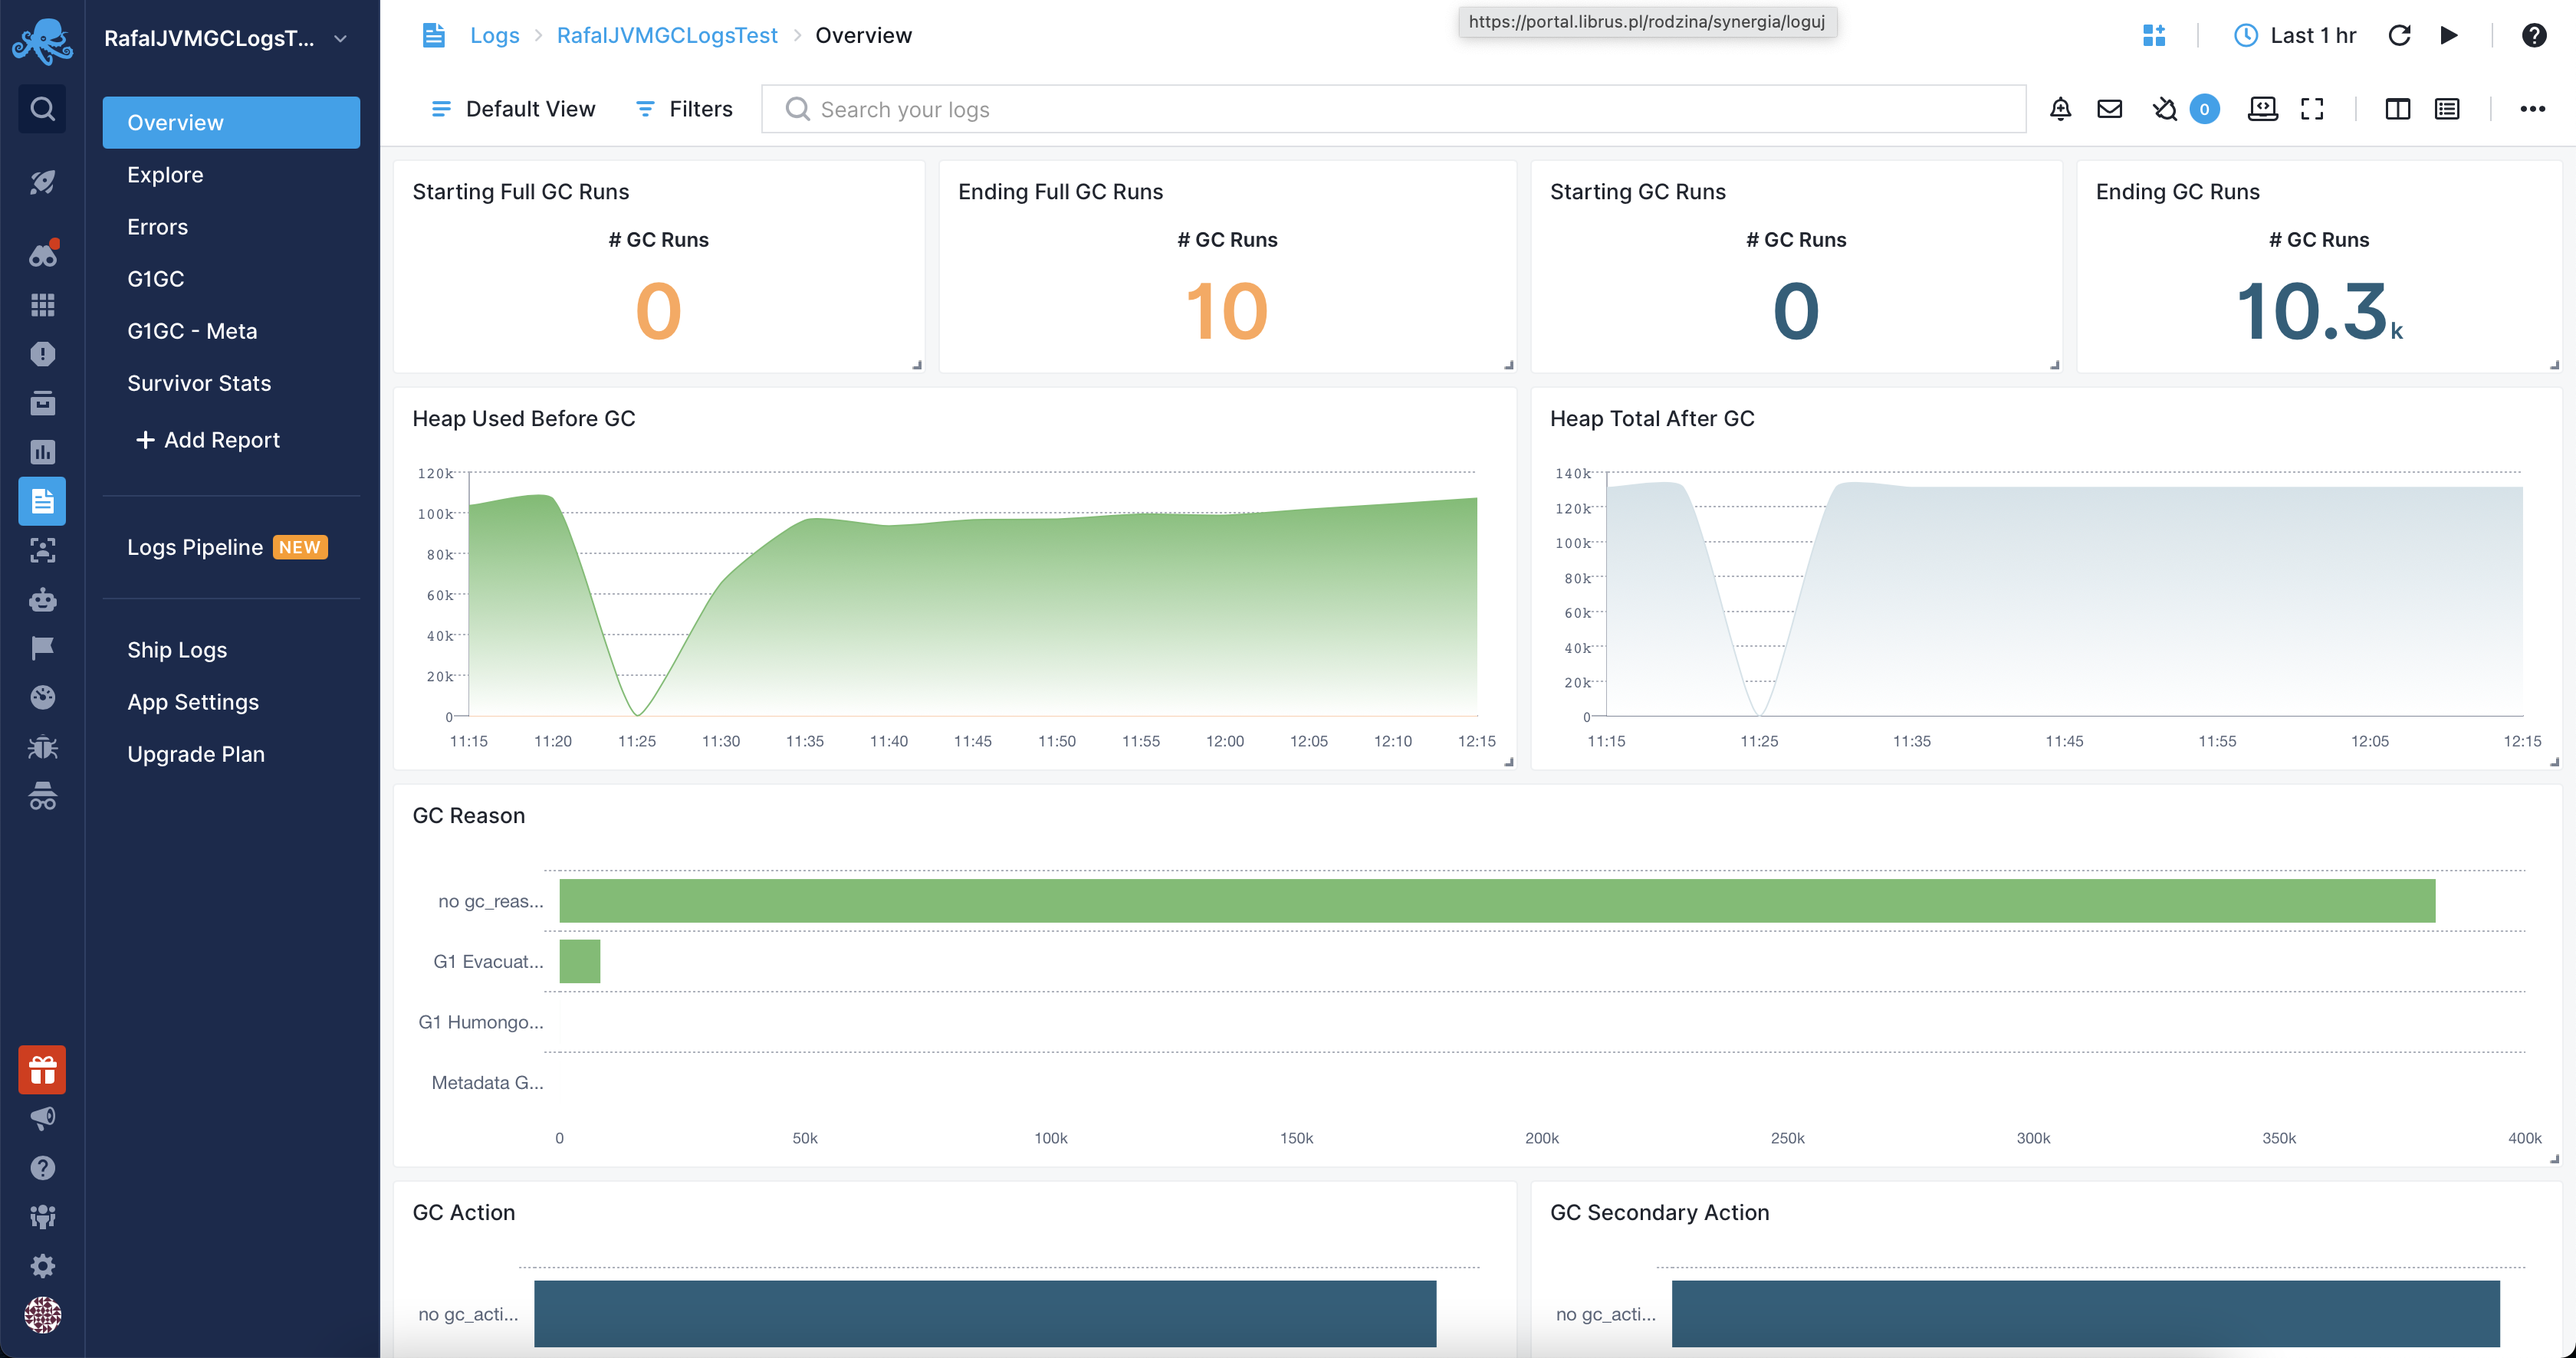
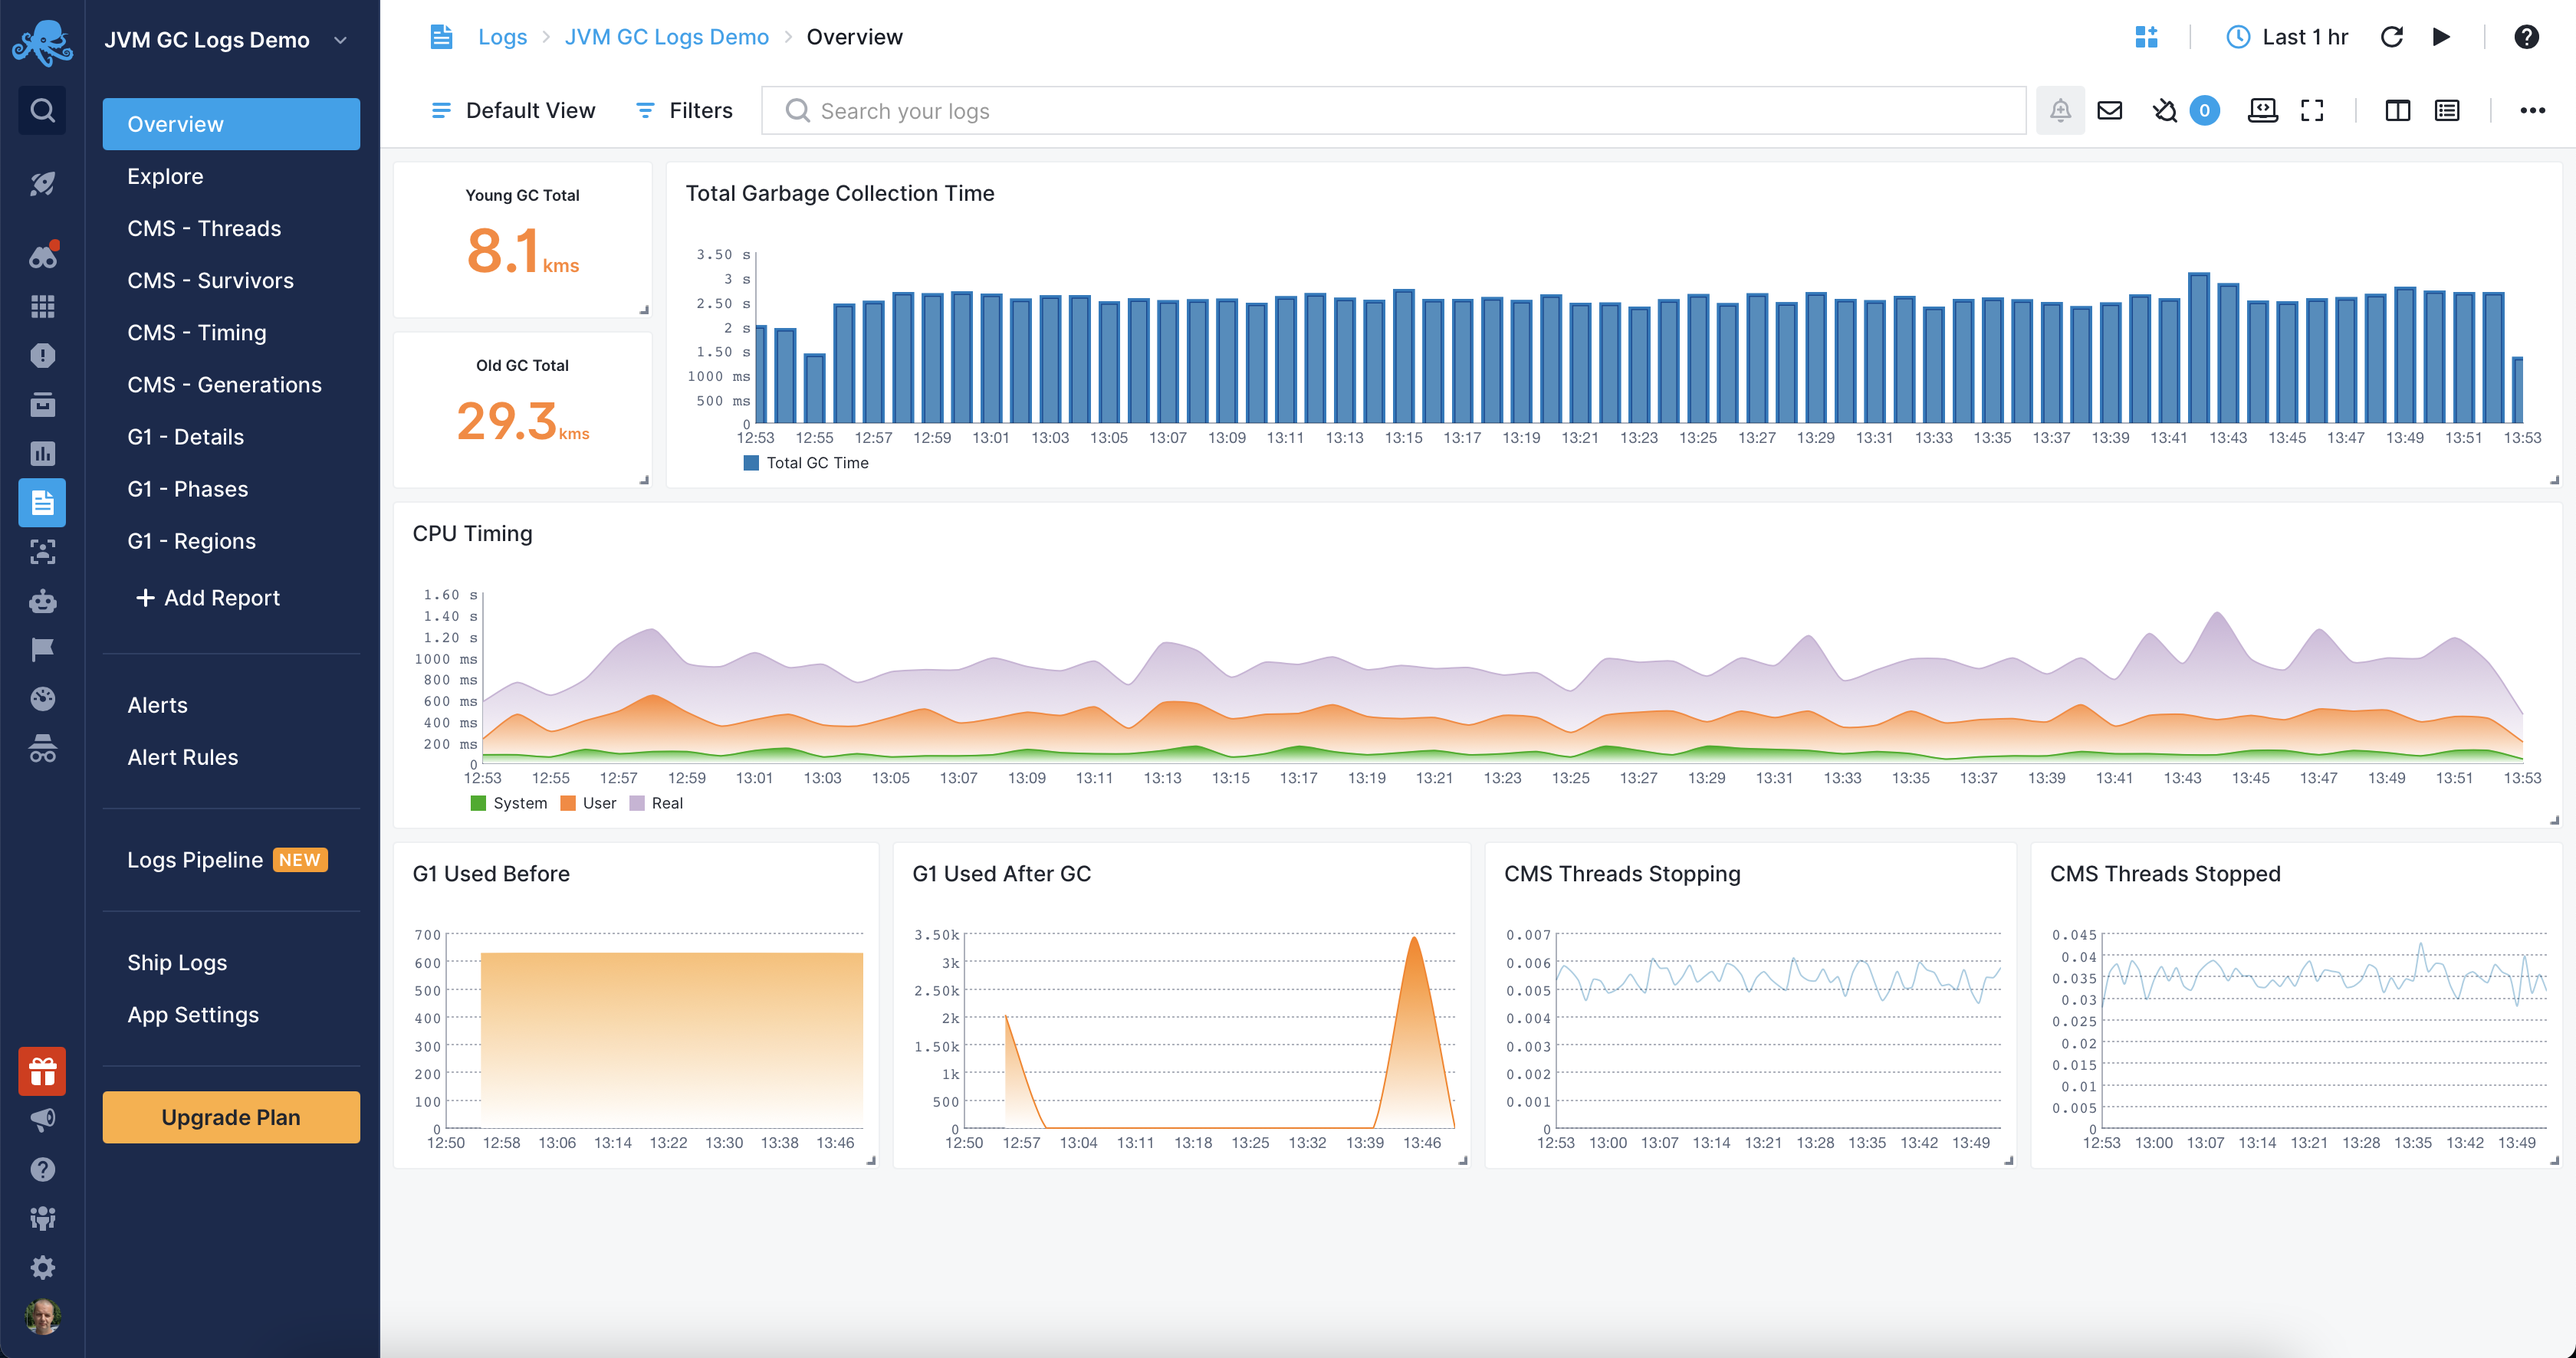
Update images related to JVM GC

diff --git a/docs/integration/jvm-gc-logs.md b/docs/integration/jvm-gc-logs.md
@@ -27,10 +27,8 @@ Once the data is in, you can explore it using the built-in reports or create you
 
 Other built-in reports include:
 
-- **Errors**: breakdown of errors coming from your logs
-- **G1GC**: report dedicated to the garbage first garbage collector and its metrics 
-- **Meta**: meta and class regions dedicated report
-- **Survivor Stats**: information regarding the survivor region
+- **CMS**: dedicated reports for threads stopping and stopped, survivors, timing and generations.
+- **G1**: details, phases and regions related to G1GC, each in a dedicated report.
 
 ## Correlation with Metrics
 
